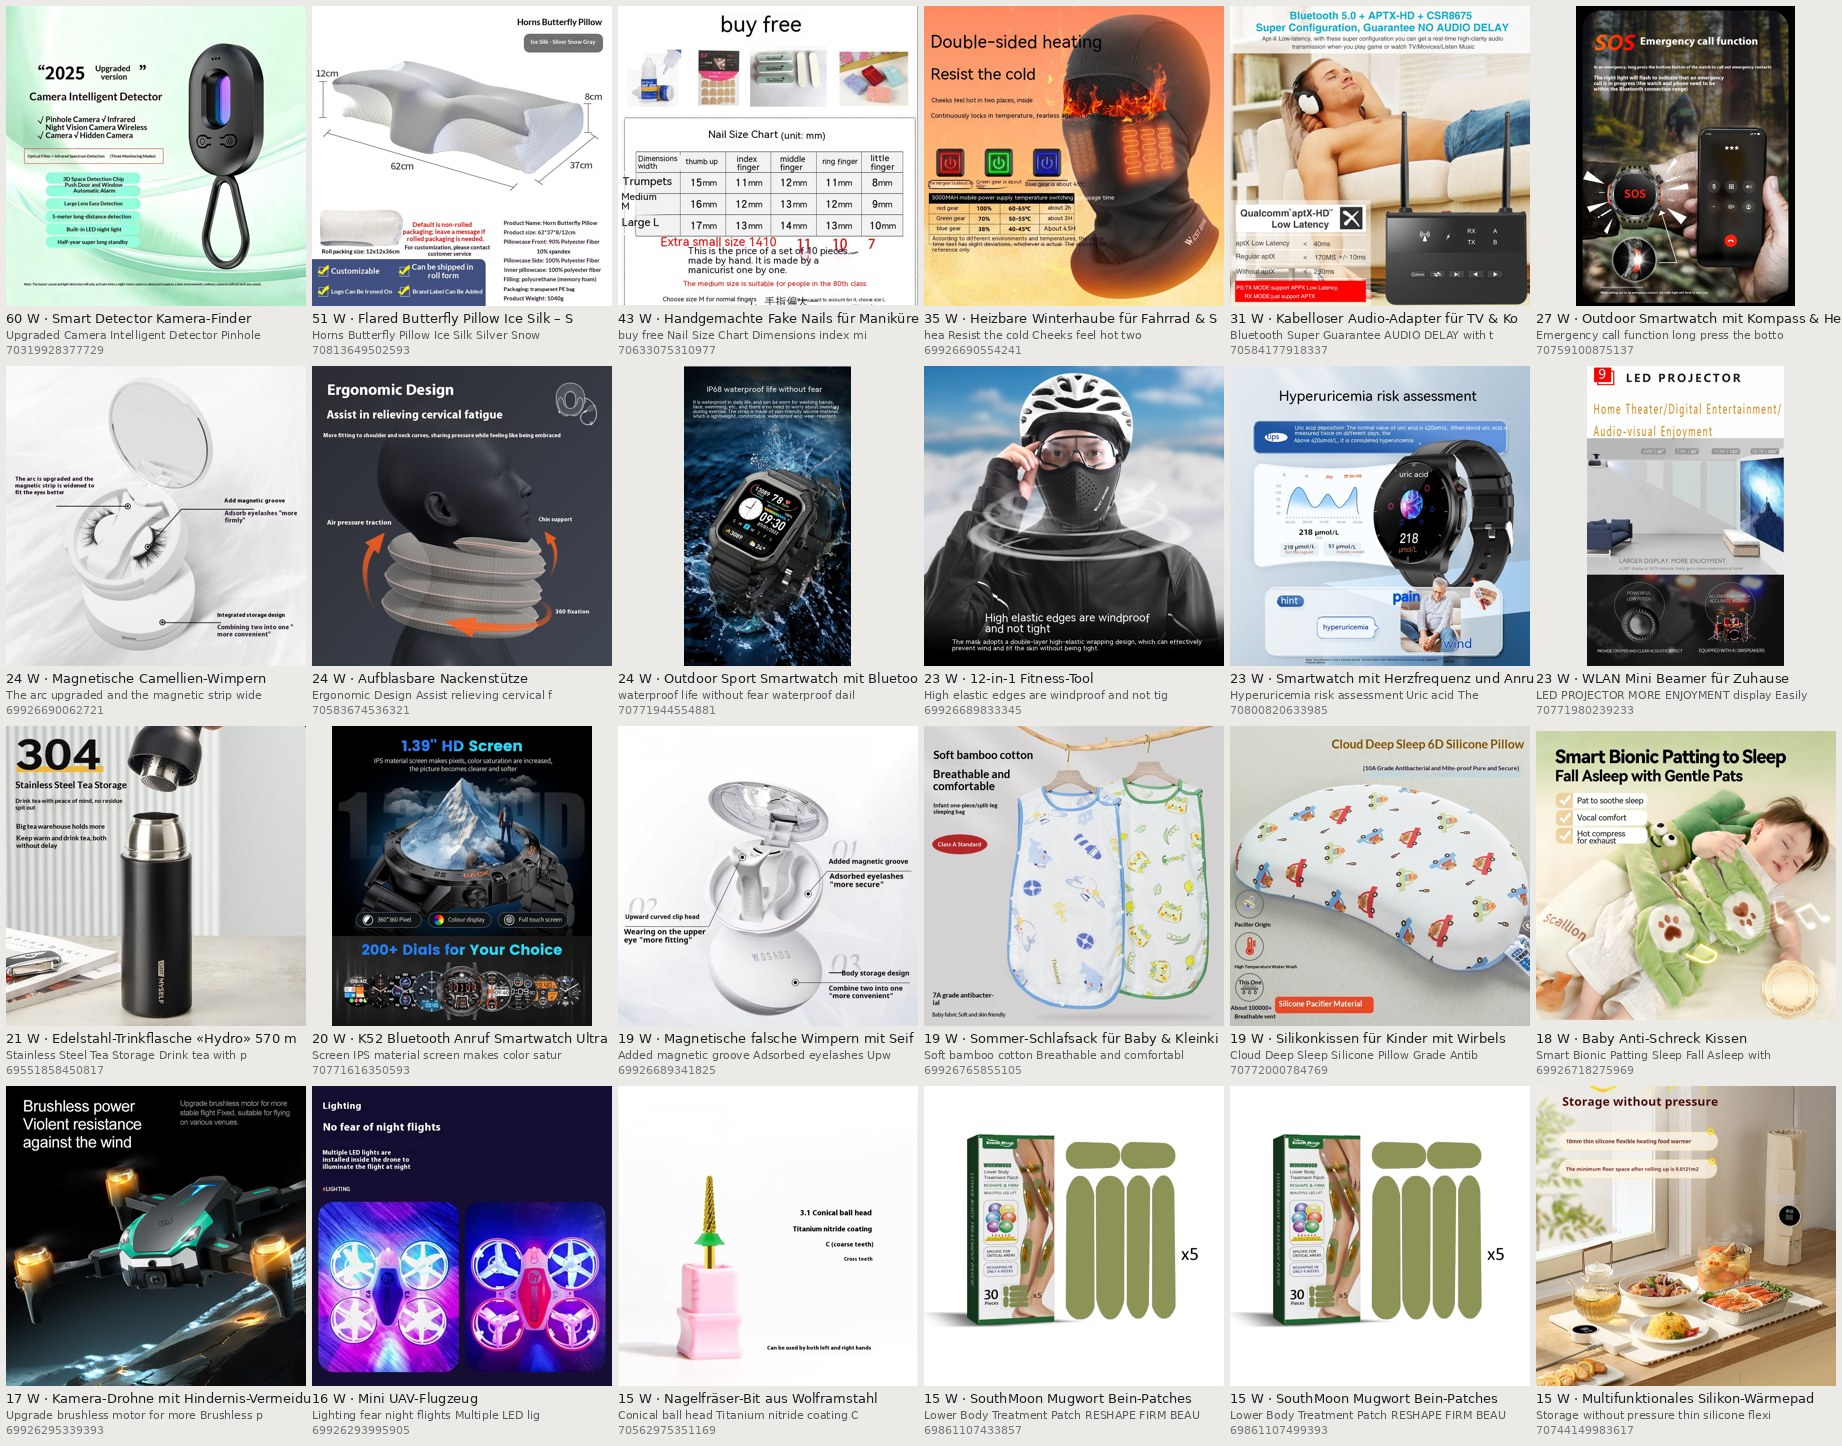
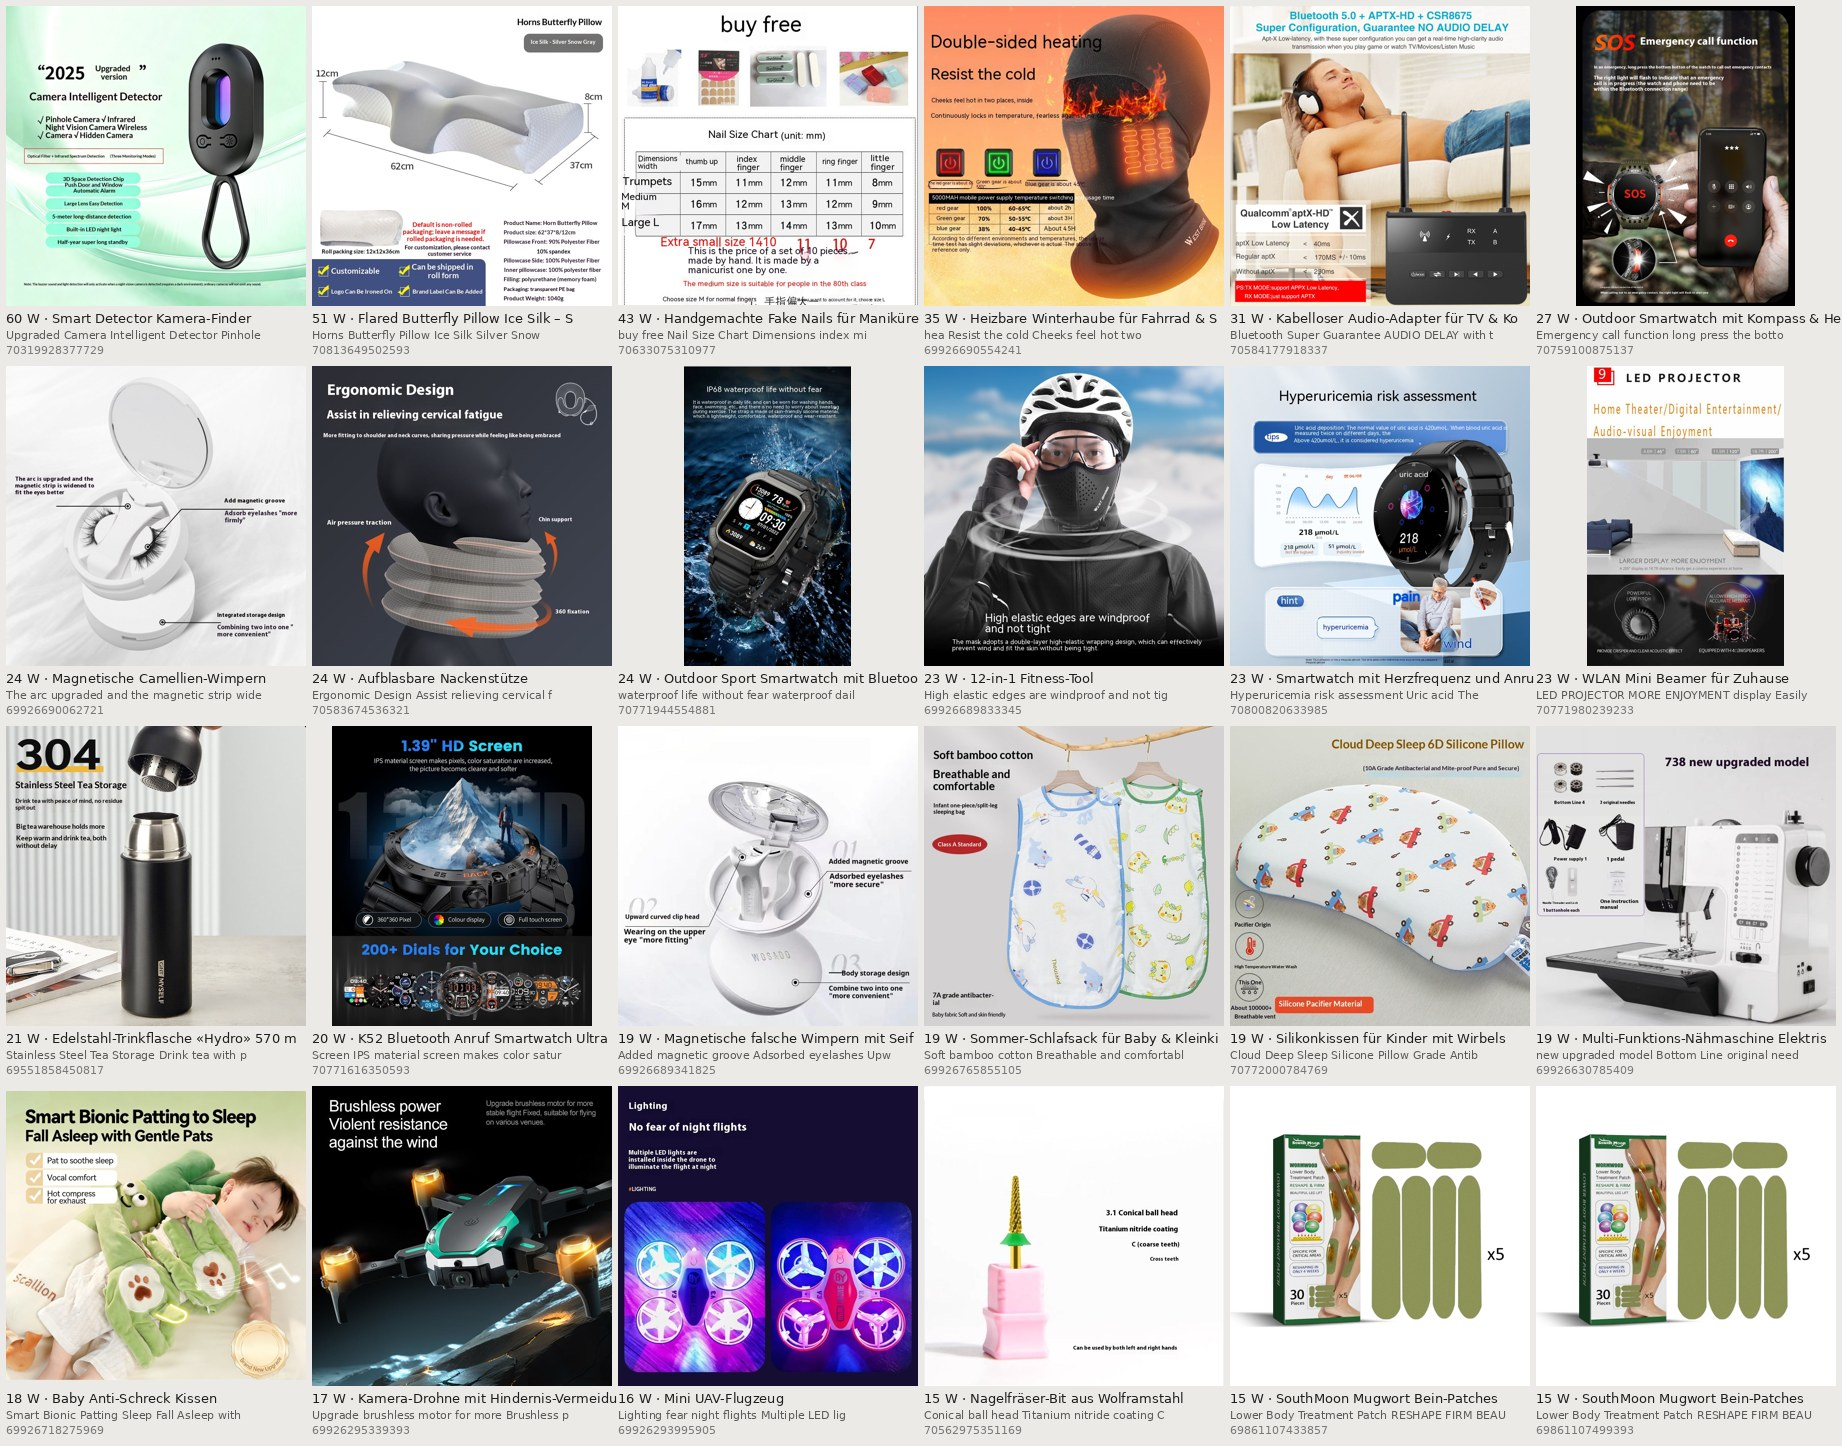
CJ-Ledger auto [skip ci]

Changed region(s): [[0.0, 0.7469, 0.6498, 0.9959], [0.8355, 0.4979, 1.0, 0.9959]]

diff --git a/dropship/BILD-WERBETEXT.md b/dropship/BILD-WERBETEXT.md
@@ -1,9 +1,9 @@
-# Bild-Werbetext in Nicht-Hauptbildern — Stand 2026-09-30T14:48:21Z
+# Bild-Werbetext in Nicht-Hauptbildern — Stand 2026-09-30T14:52:20Z
 
 Quelle: «+N»-Produkte aus `dropship/_cj_bild_backfill.txt` und (seit 24.09., QUELLE_ART=textbild) die August-Umsortierung `dropship/_textbild_hits.txt` — aktuell gewählt: nachfueller, 1187 Produkte. Geprüft werden nur Bilder ab Position 2, nie das Hauptbild. Messgerät `bildtext_pruefen.woerter()`, Schwelle ≥ 4 sichere Wörter (Tesseract, Konfidenz ≥ 60, mind. 3 Buchstaben).
 
-- Medien geprüft: **3445** in 932 Produkten
-- Treffer (≥ 4 Wörter): **152** in 129 Produkten
+- Medien geprüft: **3533** in 957 Produkten
+- Treffer (≥ 4 Wörter): **154** in 131 Produkten
 - nicht lesbar (−1, wird beim nächsten Lauf erneut versucht): 0
 - entfernt (`_bild_werbetext_entfernt.txt`): **57**
 
@@ -39,6 +39,7 @@ Quelle: «+N»-Produkte aus `dropship/_cj_bild_backfill.txt` und (seit 24.09., Q
 | Magnetische falsche Wimpern mit Seifenhalter `15453769138561` | [69926689341825](https://cdn.shopify.com/s/files/1/0943/6856/3585/files/139c7f2f-5dd6-4bde-8996-51550972abd7_fine.jpg) | 19 | Added magnetic groove Adsorbed eyelashes Upward curved clip | offen |
 | Sommer-Schlafsack für Baby & Kleinkind `15453792534913` | [69926765855105](https://cdn.shopify.com/s/files/1/0943/6856/3585/files/ba293841-75d1-444d-9134-e6bf7cc99b53_trans.jpg) | 19 | Soft bamboo cotton Breathable and comfortable Infant sleeping | offen |
 | Silikonkissen für Kinder mit Wirbelsäulenstütze `15523940270465` | [70772000784769](https://cdn.shopify.com/s/files/1/0943/6856/3585/files/8a5a282f-1435-44e1-a408-ca1c456133df_trans.jpg) | 19 | Cloud Deep Sleep Silicone Pillow Grade Antibacterial and | offen |
+| Multi-Funktions-Nähmaschine Elektrisch Automatis `15453761012097` | [69926630785409](https://cdn.shopify.com/s/files/1/0943/6856/3585/files/d1c1f8ee-bc95-4122-8644-d9859679065a_trans.jpg) | 19 | new upgraded model Bottom Line original needles Power | offen |
 | Bein-Druck Dumbbell Stange für Beinheben & Muske `15453792469377` | [69926765822337](https://cdn.shopify.com/s/files/1/0943/6856/3585/files/bd047f6d-62fe-46ee-b92d-fa16894d4d1f_trans.jpg) | 18 | Jianxiang Cast iron material NBR Foam Detachable Factory | ENTFERNT |
 | Grosse Schreibtischunterlage für Maus und Tastat `15433463103873` | [69712349921665](https://cdn.shopify.com/s/files/1/0943/6856/3585/files/bb422eff-d04a-4d90-bb2a-f6dcad20c47f_trans.jpg) | 18 | Precision edge and ALL EFFORTS ARE JUST FOR | ENTFERNT |
 | Baby Anti-Schreck Kissen `15453778870657` | [69926718275969](https://cdn.shopify.com/s/files/1/0943/6856/3585/files/9da8281b-246a-470d-89db-9caafda33504.jpg) | 18 | Smart Bionic Patting Sleep Fall Asleep with Gentle | offen |
@@ -129,6 +130,7 @@ Quelle: «+N»-Produkte aus `dropship/_cj_bild_backfill.txt` und (seit 24.09., Q
 | Kauenset für Hunde `15453794107777` | [69926768574849](https://cdn.shopify.com/s/files/1/0943/6856/3585/files/ff594967-2e75-4732-b025-8e79c783bf96_fine.jpg) | 6 | Teeth firm and ith meaty aroma | ENTFERNT |
 | Edelstahl-Trinkflasche «Hydro» 570 ml `15412899676545` | [69552061251969](https://cdn.shopify.com/s/files/1/0943/6856/3585/files/0146b03d-9d8d-4c56-a411-7dea5e6f1758_water_trans.jpg) | 6 | utdoor Travel ion open with ATASAW | ENTFERNT |
 | Kissenbezug Ethno‑Muster aus Baumwolle und Leine `15524474126721` | [70777373983105](https://cdn.shopify.com/s/files/1/0943/6856/3585/files/1892f474-d266-4770-8e78-4c386aed6a47_trans.jpg) | 6 | Japanese Pattern Mount Fuji Lumbar Pillow | offen |
+| Schwarzes und weisses abstrakes Bild `15453730242945` | [69926176129409](https://cdn.shopify.com/s/files/1/0943/6856/3585/files/9fd0a88c-80d6-4be7-a0ce-e489d547c124.jpg) | 6 | Allis Andy Warhol Moderna Stockholm Sweden | offen |
 | Stiller Aroma Diffusor für Zuhause & Büro `15453774086529` | [69926701629825](https://cdn.shopify.com/s/files/1/0943/6856/3585/files/6d4977fb-27ff-4537-928a-345fe4d01923.jpg) | 5 | FOR YOU PROVIDE COMFORT FRAGRANCE | ENTFERNT |
 | Arm-Trainer für Zuhause `15453762584961` | [69926633308545](https://cdn.shopify.com/s/files/1/0943/6856/3585/files/31de1ba0-7de4-4960-8285-f97d43eb8315_trans.jpg) | 5 | Strengthen your body Build muscles | offen |
 | Intelligenter Wasserspender für Katzen `15453765009793` | [69926640255361](https://cdn.shopify.com/s/files/1/0943/6856/3585/files/7886b754-4fb5-4cd4-867d-0c466afc290a_trans.jpg) | 5 | set satisfies all Container Extrajlarge | offen |
